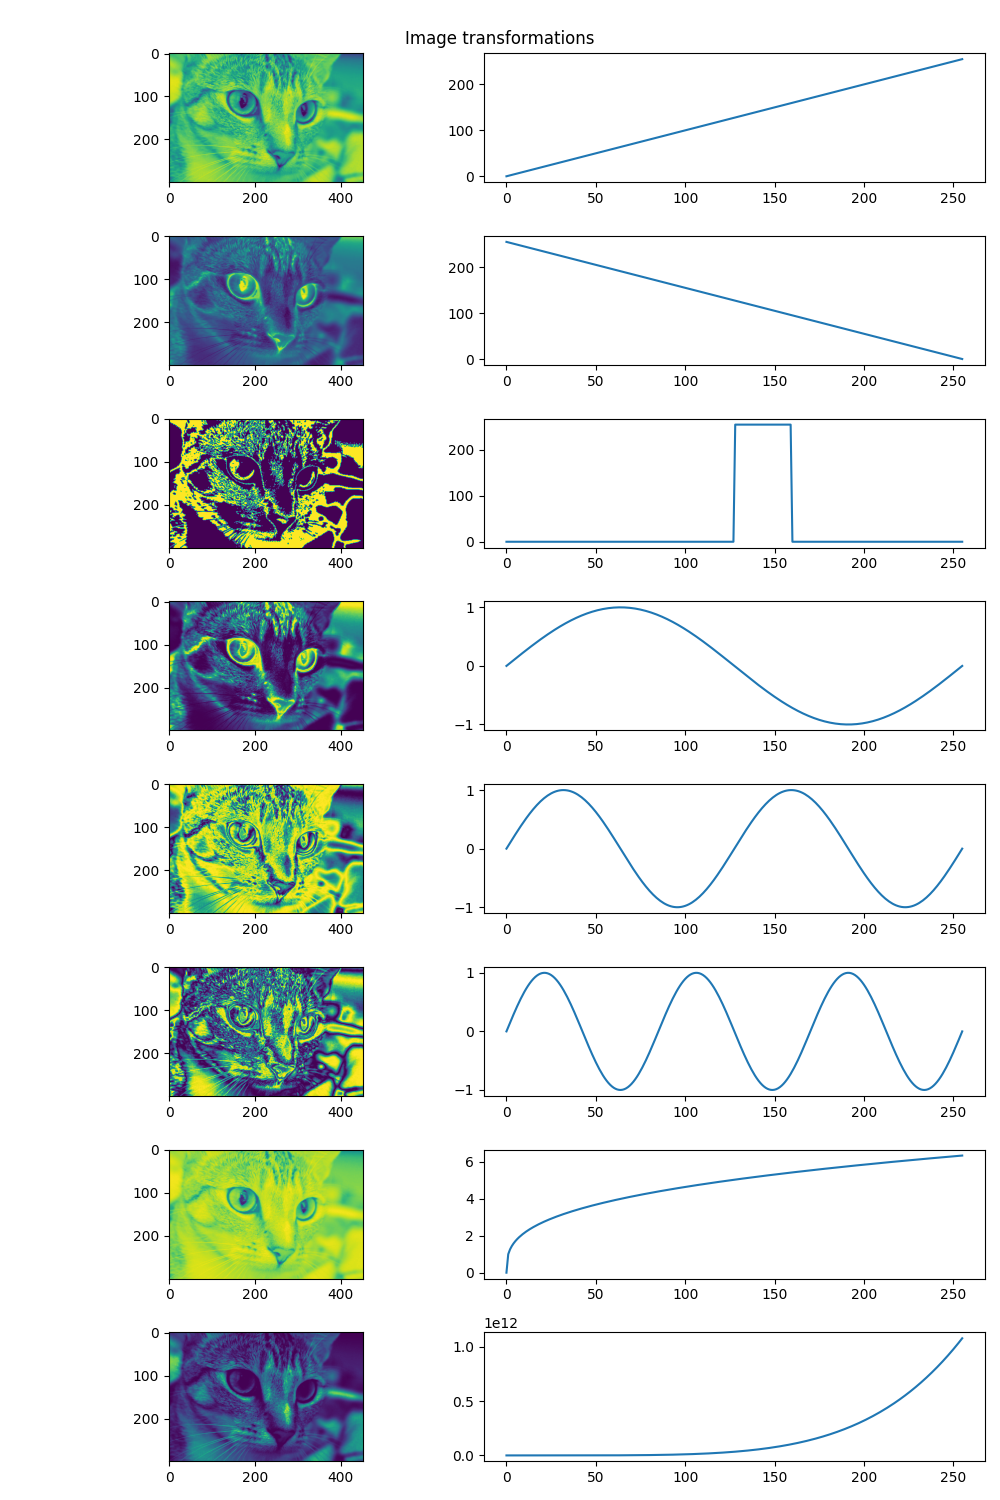
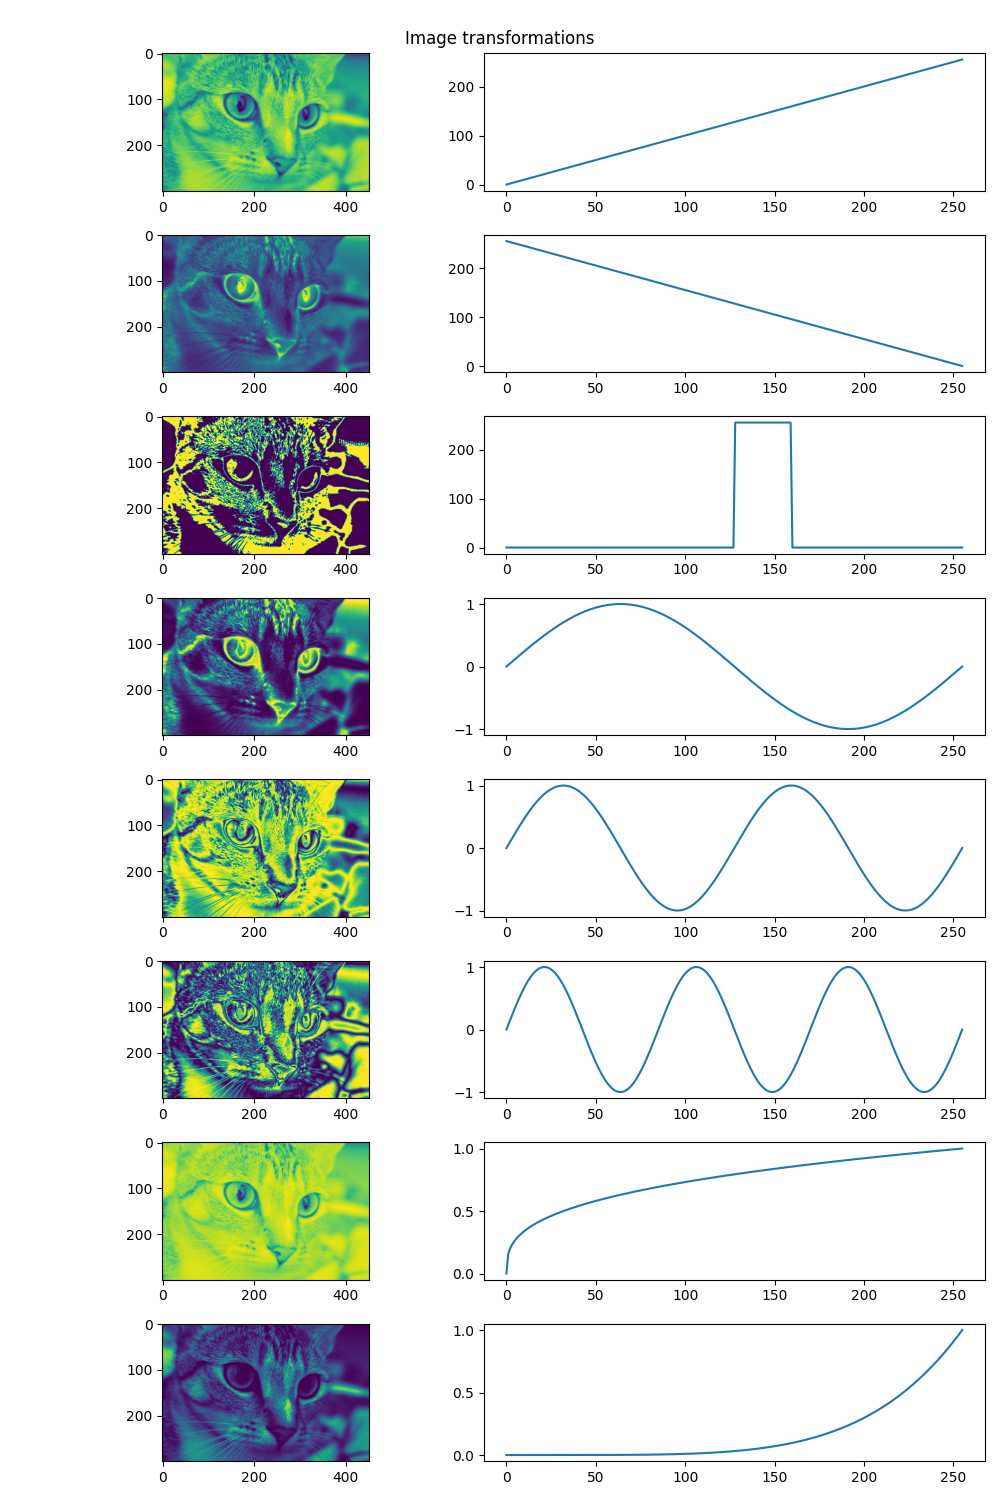
Minor normalization fixes

diff --git a/lab4/script2.py b/lab4/script2.py
@@ -40,11 +40,15 @@ ax[5, 0].imshow(sine3_img)
 ax[5, 1].plot(sine3)
 
 gamma1 = baseline ** (1 / 3)
+gamma1 -= np.min(gamma1)
+gamma1 /= np.max(gamma1)
 gamma1_img = gamma1[img_g]
 ax[6, 0].imshow(gamma1_img)
 ax[6, 1].plot(gamma1)
 
 gamma2 = baseline ** 5
+gamma2 -= np.min(gamma2)
+gamma2 /= np.max(gamma2)
 gamma2_img = gamma2[img_g]
 ax[7, 0].imshow(gamma2_img)
 ax[7, 1].plot(gamma2)
